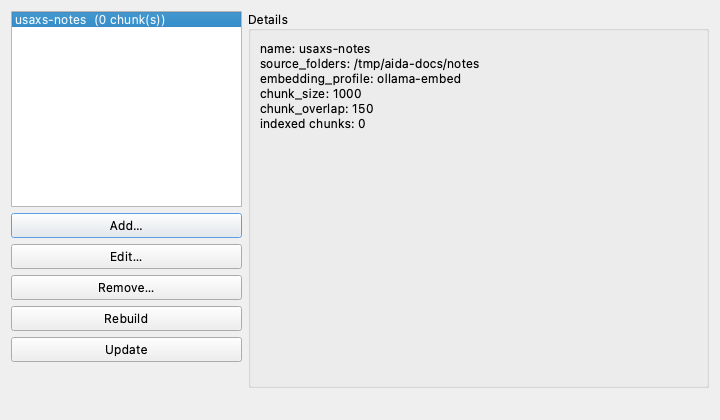
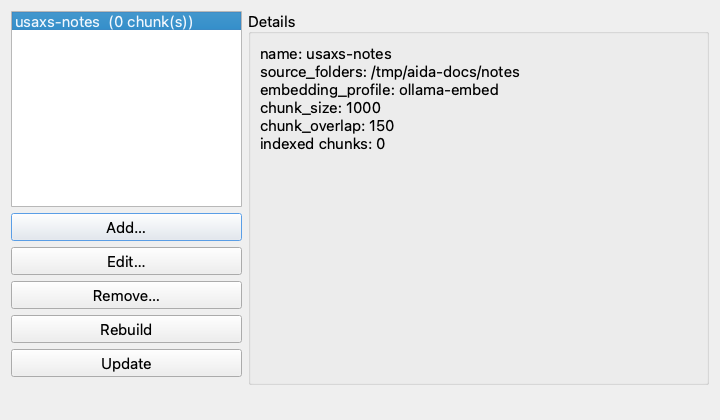
docs: make_app applies AIDA's default font size; regenerate dialog shots
A single --only run now gives the same image as a full run.

diff --git a/scripts/doc_shots/_package.py b/scripts/doc_shots/_package.py
@@ -94,6 +94,12 @@ def make_app():
     from aida.ui.qt.icon import app_icon
 
     app.setWindowIcon(app_icon())
+    # AIDA's default font size, as aida-gui applies it at start-up, so a
+    # dialog shot does not depend on what an earlier shot set.
+    from aida.config.settings import AppConfig
+    from aida.ui.qt.window_state import apply_font_size
+
+    apply_font_size(app, AppConfig())
     return app
 
 
